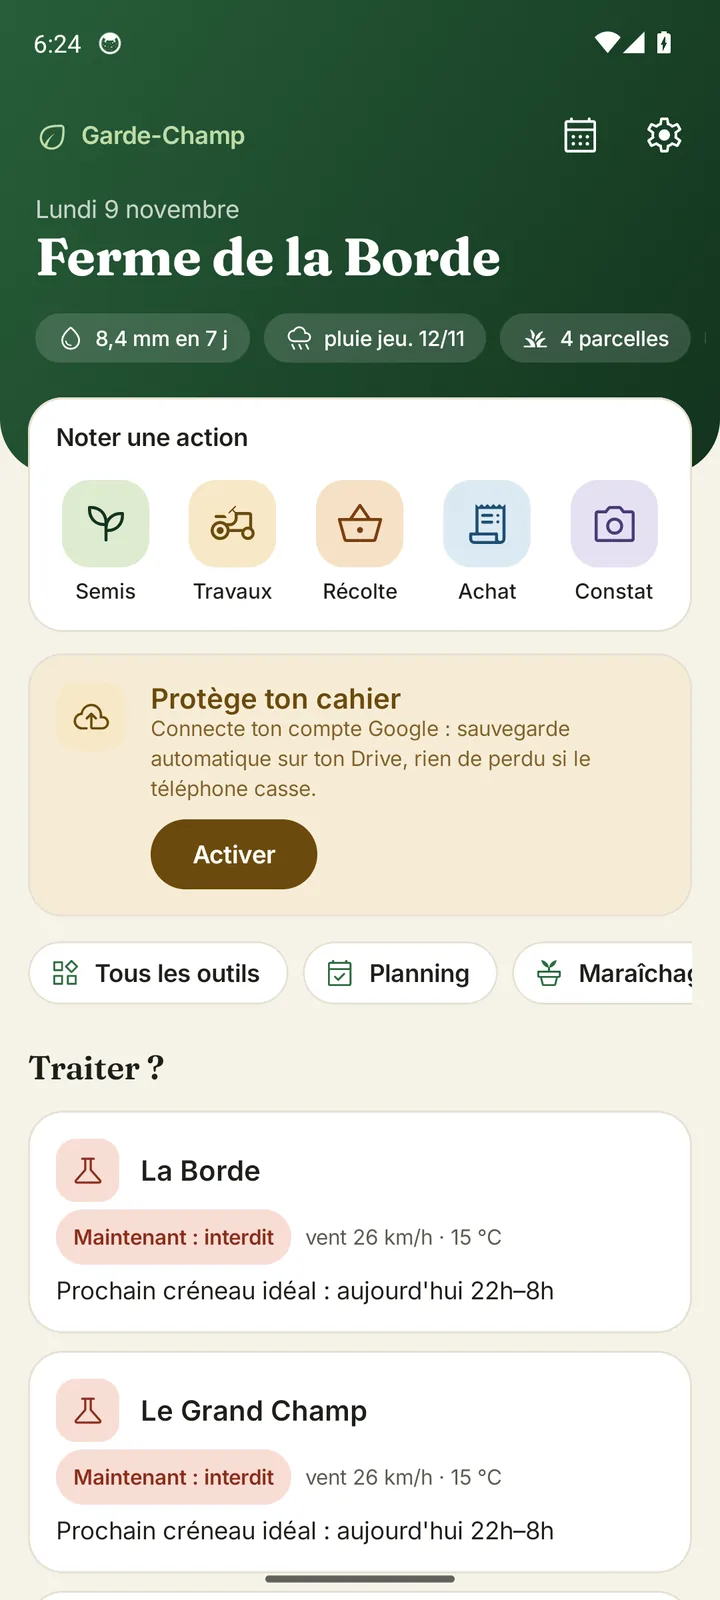
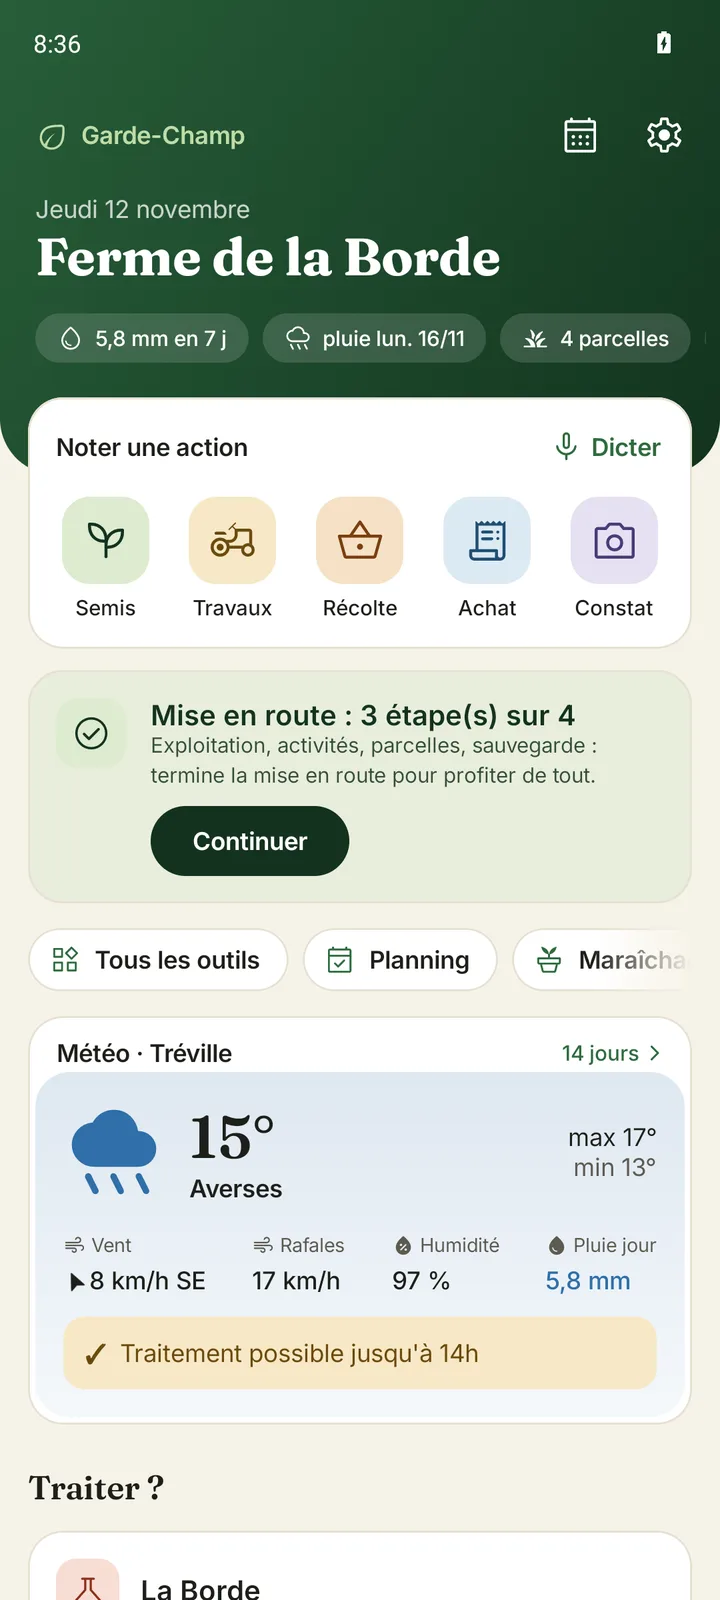
Site : nouvelles captures météo, lancement le 1er janvier 2027
Claude-Session: https://claude.ai/code/session_01AybyUDMTeUwr3XxN72mTs1

diff --git a/index.html b/index.html
@@ -199,11 +199,11 @@ footer a:hover{color:var(--sur-foret)}
       <div class="actions">
         <a class="bouton plein" href="#contact">
           <svg width="20" height="20" viewBox="0 0 24 24" aria-hidden="true"><path fill="currentColor" d="M6 3.5v17l14-8.5z"/></svg>
-          <span><small>Bientôt</small>sur Google Play</span>
+          <span><small>Le 1er janvier 2027</small>sur Google Play</span>
         </a>
         <a class="bouton contour" href="#fonctions">Voir l'appli</a>
       </div>
-      <p class="mention-lancement">Lancement en préparation avec de premières fermes testeuses. Écris-nous pour être prévenu.</p>
+      <p class="mention-lancement">Disponible sur Google Play le 1er janvier 2027, avec 30 jours d'essai offerts. Écris-nous pour être prévenu.</p>
 
       <div class="creneaux" role="img" aria-label="Exemple de créneaux de traitement sur 24 heures : idéal de 4 h à 9 h, autorisé jusqu'à 11 h, interdit l'après-midi à cause du vent.">
         <div class="tete"><span>Le Grand Champ · mardi</span><strong>Meilleur créneau : 4 h – 9 h</strong></div>
@@ -214,7 +214,7 @@ footer a:hover{color:var(--sur-foret)}
         <div class="legende"><span><i style="background:#5FA36E"></i>Idéal</span><span><i style="background:#D9A84E"></i>Autorisé : vent ≤ 19 km/h (force 3 Beaufort)</span><span><i style="background:#B4532F"></i>Interdit</span></div>
       </div>
     </div>
-    <div class="telephone"><img src="images/accueil.webp" alt="Écran d'accueil de Garde-Champ : carte « Noter une action », raccourcis et alertes de la semaine" width="720" height="1600"></div>
+    <div class="telephone"><img src="images/accueil.webp" alt="Écran d'accueil de Garde-Champ : carte « Noter une action », raccourcis et météo de l'exploitation avec le verdict de traitement" width="720" height="1600"></div>
   </div>
 </div>
 
@@ -238,8 +238,8 @@ footer a:hover{color:var(--sur-foret)}
         </ul>
       </div>
       <div class="visuel duo">
-        <div class="telephone"><img src="images/meteo.webp" alt="Écran météo : créneaux de traitement sur 48 heures, heure par heure et prévisions sur 14 jours" width="720" height="1600"></div>
-        <div class="telephone"><img src="images/vigie.webp" alt="Écran Vigie : pluie des 30 derniers jours, bilan hydrique et campagne en cours" width="720" height="1600"></div>
+        <div class="telephone"><img src="images/meteo.webp" alt="Écran météo : temps présent et verdict de traitement, créneaux sur 48 heures et heure par heure" width="720" height="1600"></div>
+        <div class="telephone"><img src="images/vigie.webp" alt="Écran Vigie : pluie des 30 derniers jours, bilan hydrique, relevés de la station Météo-France la plus proche" width="720" height="1600"></div>
       </div>
     </div>
 
